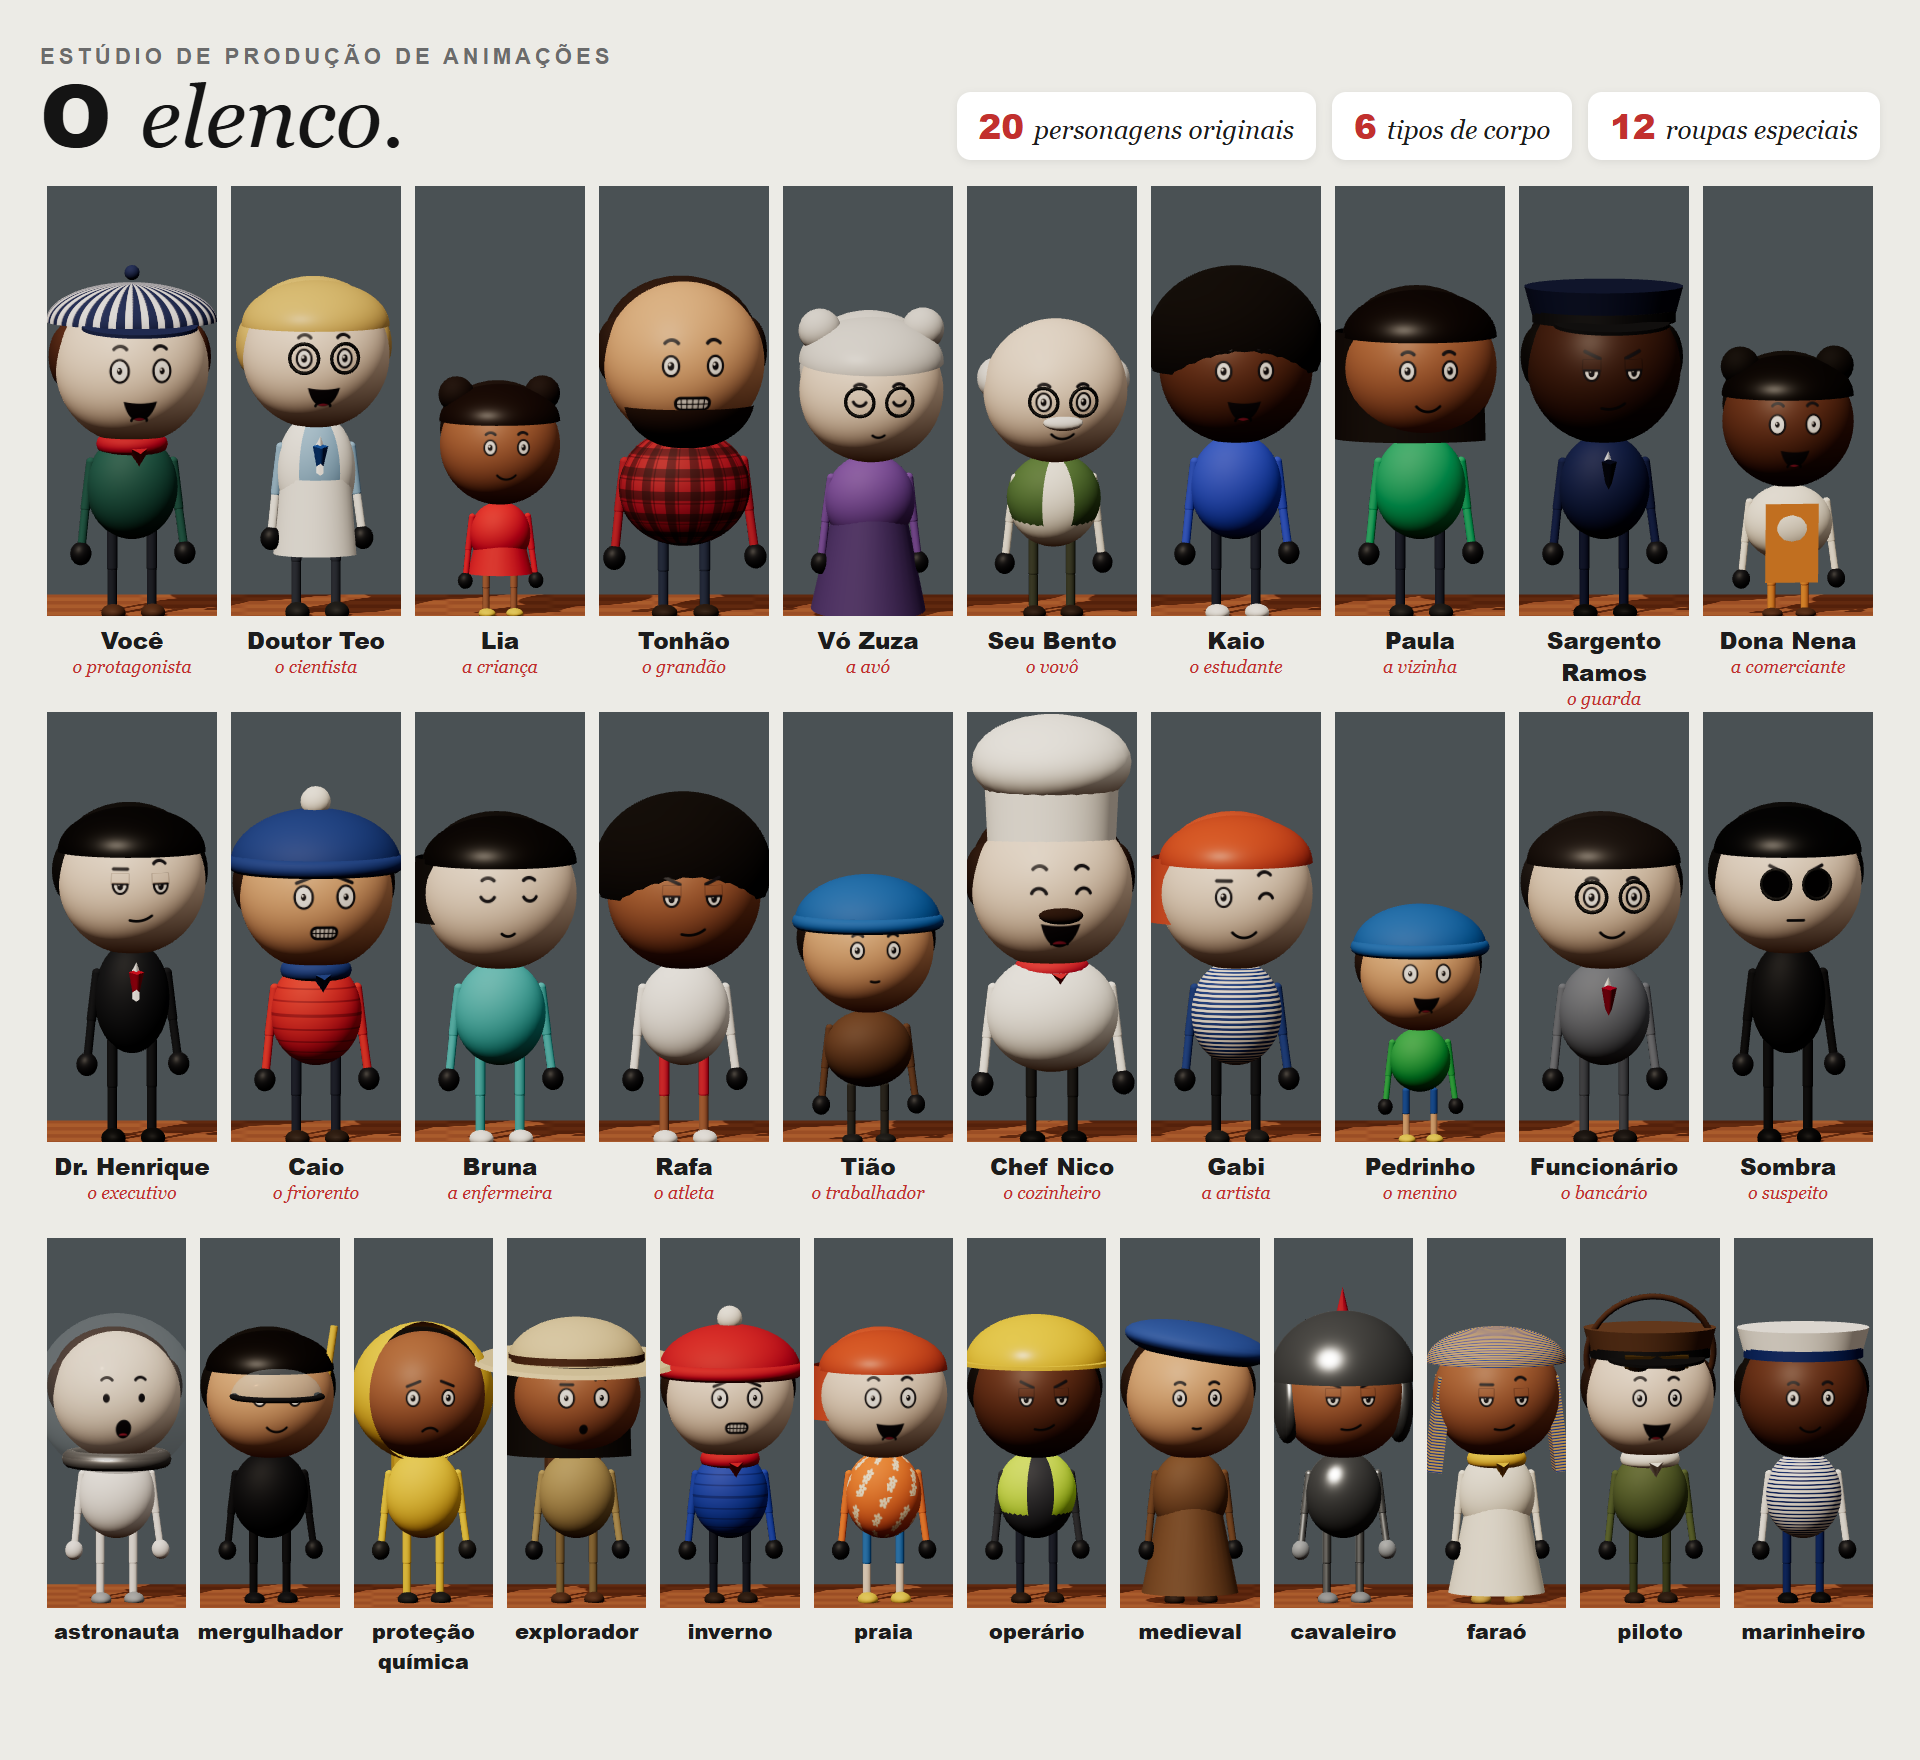
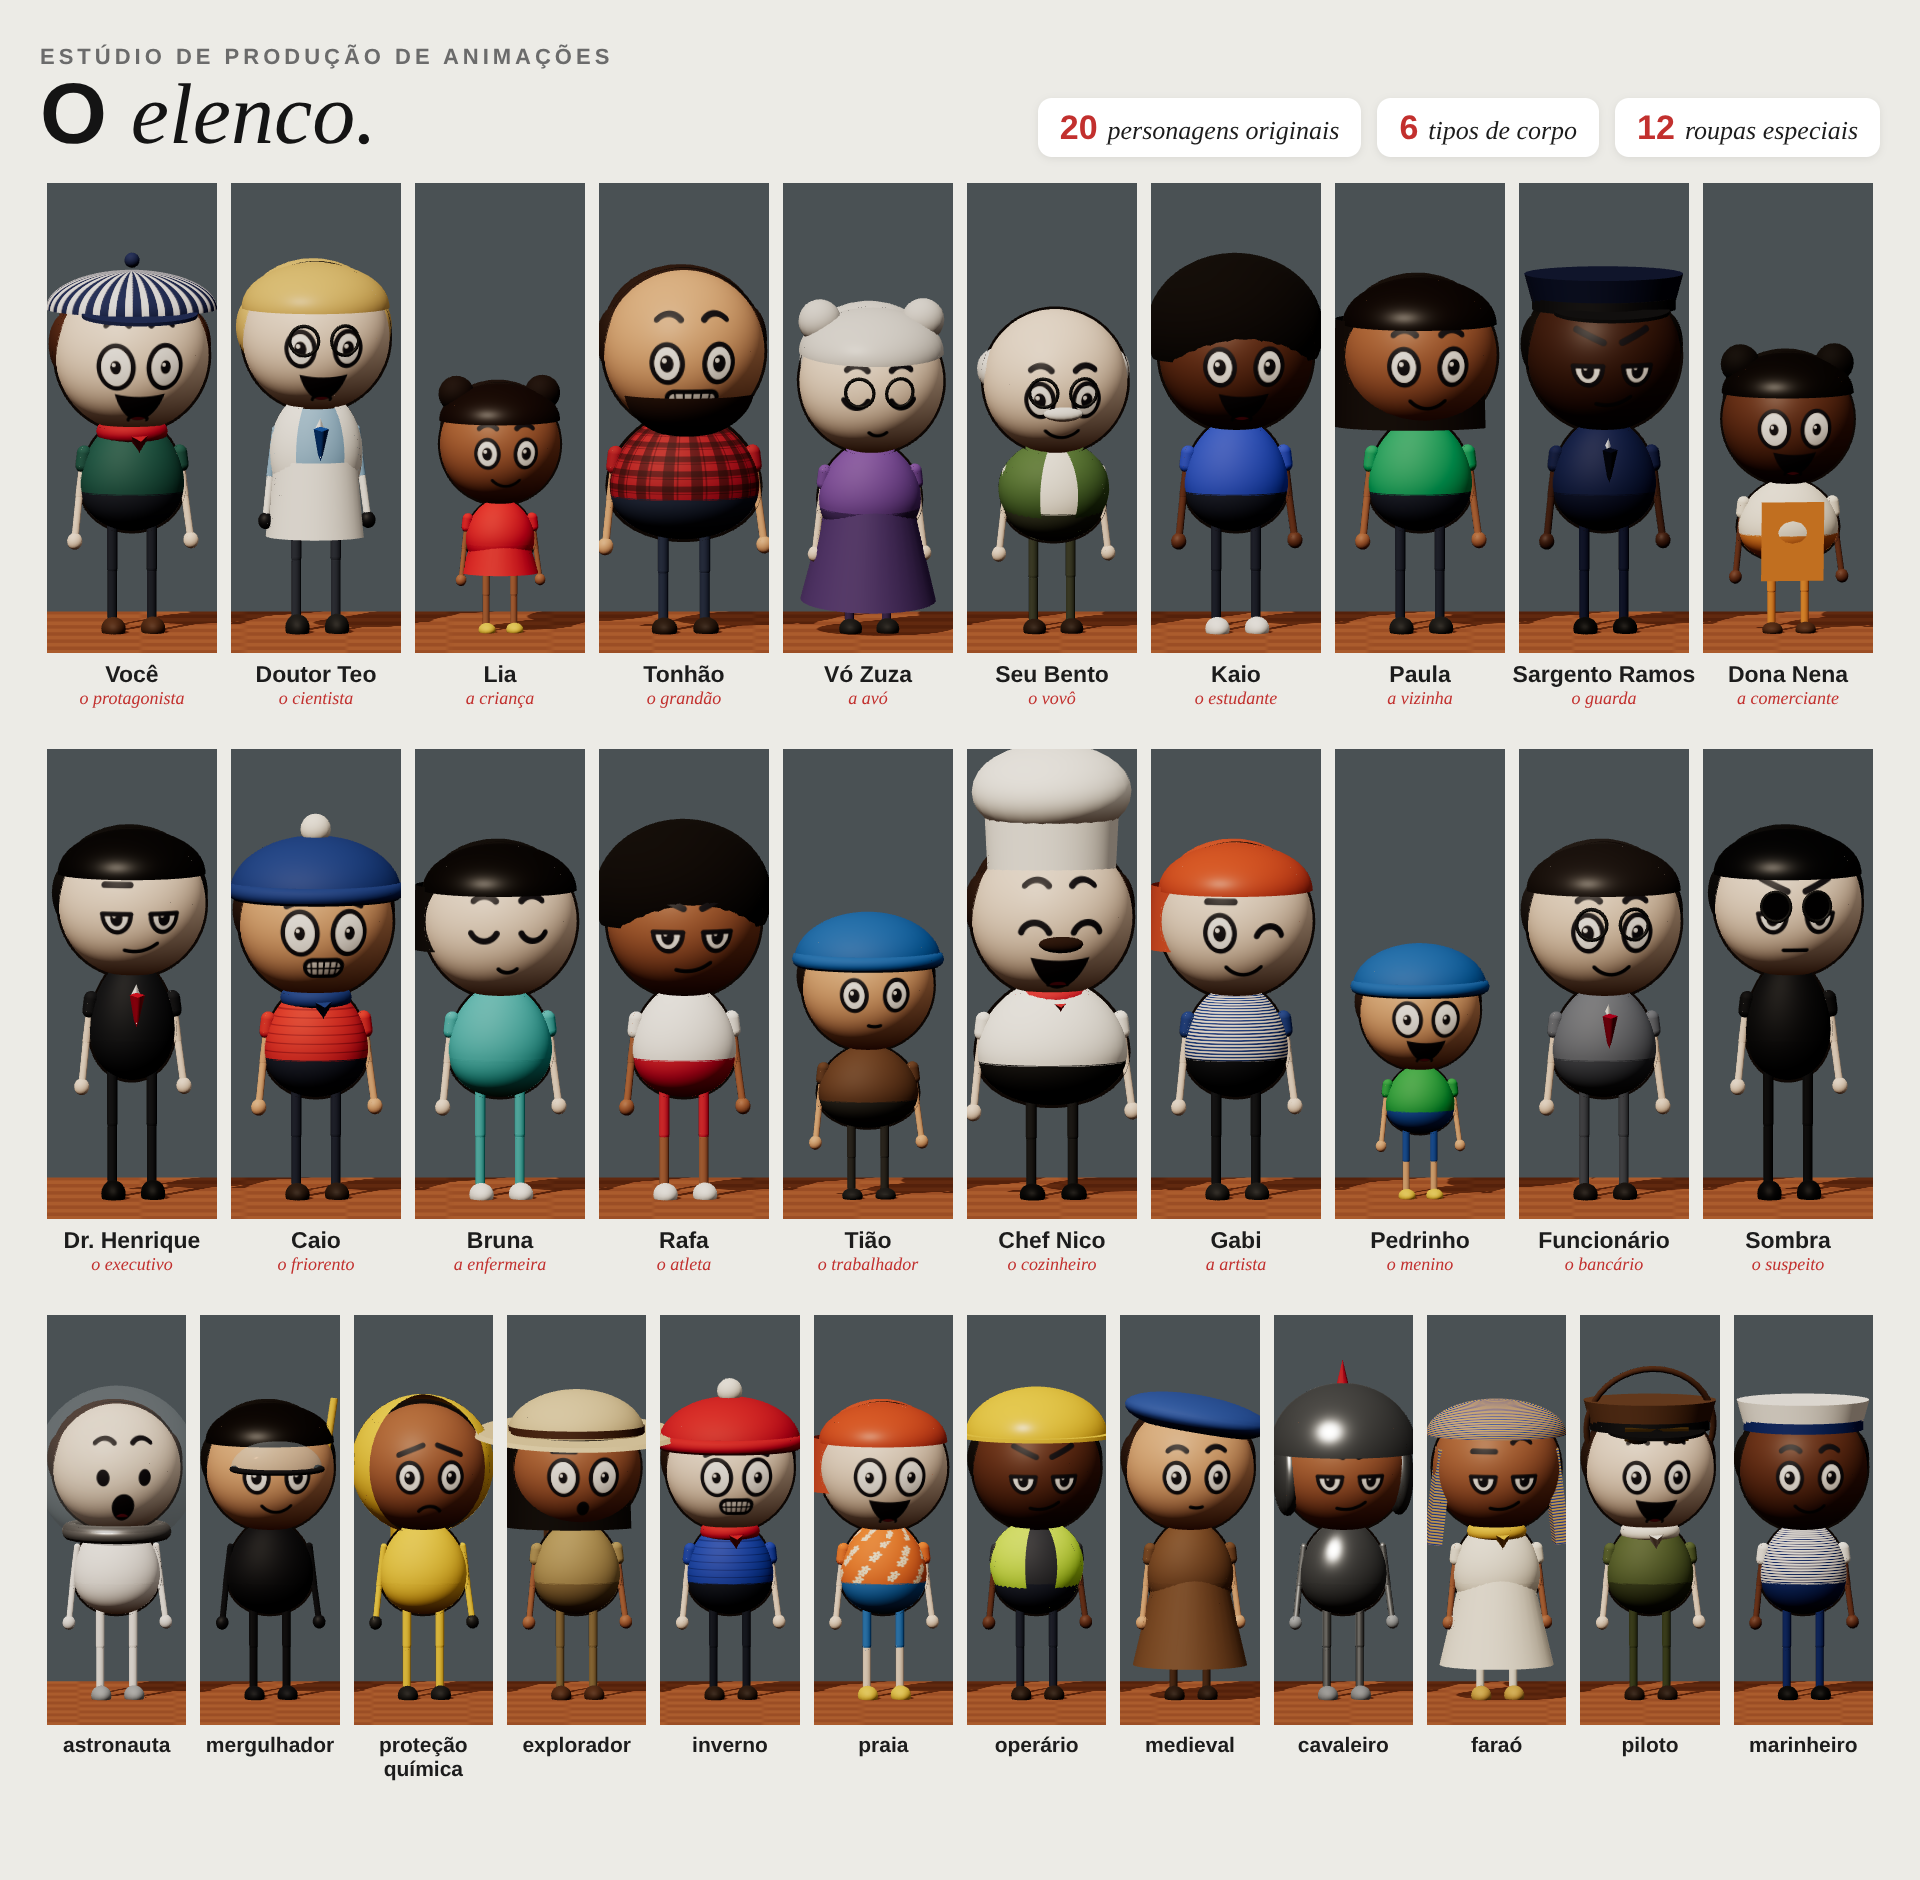
Estilo dos vídeos vira o padrão de todos os personagens
- Character: estilo 'video' por padrão; 'classico' mantém o corpo antigo
- Luvas de roupa especial (astronauta, proteção, mergulhador) mantêm a manga
- ELENCO.png refeito no estilo novo; cartões mais altos na folha

Claude-Session: https://claude.ai/code/session_016bHbYKiNFahAkYpXj2UE3y

diff --git a/estudio-animacoes-3d/src/Character.tsx b/estudio-animacoes-3d/src/Character.tsx
@@ -81,7 +81,7 @@ export type Look = {
   metal?: boolean; // armadura
   backpack?: string; // mochila / tanque
   faixa?: string; // faixa colorida na cintura (macacão de astronauta, armadura em gomos)
-  estilo?: 'video'; // 'video' = corpo e rosto dos Shorts de referência (tronco-ovo, pernas longas, olhos grandes, contorno)
+  estilo?: 'video' | 'classico'; // padrão 'video' = corpo e rosto dos Shorts de referência; 'classico' = corpo antigo do kit
 };
 
 export const VOCE: Look = {
@@ -144,8 +144,9 @@ const Limb = ({ len, r, color, metal }: { len: number; r: number; color: string;
 
 const Arm = ({ side, sz, sx, el, look, sh, hand }: { side: 1 | -1; sz: number; sx: number; el: number; look: Look; sh: number; hand?: ReactNode }) => {
   // Estilo vídeo: braço cor de pele com manguinha curta e mão pequena clara (exceto armadura/macacão).
-  const V = look.estilo === 'video';
-  const nu = V && !look.metal && !look.coat && look.gloves !== look.jacket;
+  const V = look.estilo !== 'classico';
+  // Braço à mostra só quando a "luva" é a mão padrão (escura) ou da cor da pele; luva de roupa especial mantém a manga.
+  const nu = V && !look.metal && !look.coat && (look.gloves === '#1e1f24' || look.gloves === look.skin);
   const braco = nu ? look.skin : look.jacket;
   const mao = V && !look.metal ? (nu ? look.skin : look.gloves) : look.gloves;
   return (
@@ -596,7 +597,7 @@ export const Character = ({
   const swing = Math.sin(ph) * 0.55 * p.stride;
   const bob = Math.abs(Math.sin(ph)) * 0.07 * p.stride;
   const sq = 1 - p.squash * 0.18;
-  const V = look.estilo === 'video';
+  const V = look.estilo !== 'classico';
   const pernas = b.legs * (V ? 1.35 : 1);
   // Estilo vídeo: tronco maior em relação à cabeça, ombros mais abertos.
   const torso: [number, number, number] = V ? [b.torso[0] * 1.18, b.torso[1] * 1.08, b.torso[2] * 1.18] : b.torso;

diff --git a/estudio-animacoes-3d/src/Root.tsx b/estudio-animacoes-3d/src/Root.tsx
@@ -18,7 +18,7 @@ export const Root = () => (
       defaultProps={{ legendas: false, voz: VOZ.length > 0, musica: false }}
     />
     {/* Folha com todo o elenco disponível (node tools/elenco.mjs) */}
-    <Composition id="Elenco" component={Elenco} durationInFrames={1} fps={FPS} width={1920} height={1760} />
+    <Composition id="Elenco" component={Elenco} durationInFrames={1} fps={FPS} width={1920} height={1880} />
  <Composition id="NovosPersonagens" component={NovosPersonagens} durationInFrames={1} fps={FPS} width={1920} height={1920} />
     <Composition id="PersonagensMina" component={PersonagensMina} durationInFrames={1} fps={FPS} width={1920} height={1220} />
   </>

diff --git a/estudio-animacoes-3d/src/Elenco.tsx b/estudio-animacoes-3d/src/Elenco.tsx
@@ -97,9 +97,9 @@ export const Elenco = () => {
           <Selo n={roupas.length} txt="roupas especiais" />
         </div>
       </div>
-      <Cartoes membros={todos.slice(0, 10)} w={W} h={430} />
-      <Cartoes membros={todos.slice(10)} w={W} h={430} />
-      <Cartoes membros={roupas} w={W} h={370} />
+      <Cartoes membros={todos.slice(0, 10)} w={W} h={470} />
+      <Cartoes membros={todos.slice(10)} w={W} h={470} />
+      <Cartoes membros={roupas} w={W} h={410} />
     </AbsoluteFill>
   );
 };

diff --git a/estudio-animacoes-3d/CLAUDE.md b/estudio-animacoes-3d/CLAUDE.md
@@ -111,7 +111,9 @@ estas regras. Quando uma regra não puder ser cumprida, avise antes de seguir.
   Use `rand(semente)` de `src/anim.ts` — o mesmo quadro sai igual em qualquer render.
 
 ## 1 — Forma
-- Cabeça grande e redonda (~1/3 da altura), corpo arredondado, braços e pernas **finos**, mãos e pés escuros sem dedos.
+- Estilo dos Shorts de referência (padrão, `REFERENCIAS.md`): cabeça grande e redonda com contorno escuro, olhos grandes,
+  tronco em forma de ovo (camisa em cima, calça embaixo), pernas longas e finas, braços cor de pele com manguinha e mãos pequenas claras.
+  Para o corpo antigo do kit use `estilo: 'classico'` no `Look`.
 - Todos os personagens saem da mesma base (`Character`); muda só o `Look` (roupa, cabelo, acessórios, cores).
 
 ## 2 — Cenário
@@ -177,7 +179,7 @@ o segundo em que a palavra começa (linha começa em 0; busca pelo começo da pa
   `body` ('adulto' | 'magro' | 'forte' | 'crianca' | 'idoso' | 'baixo'),
   `hairStyle` ('curto' | 'liso' | 'longo' | 'coque' | 'crespo' | 'careca' | 'chanel' | 'rabo' | 'nenhum'),
   `hat` + `hatColor` ('bone' | 'gorro' | 'touca' | 'boina' | 'policia' | 'chef' | 'capacete' | 'explorador' | 'astronauta' |
-  'cavaleiro' | 'farao' | 'marinheiro' | 'piloto' | 'capuz' | 'coroa' | 'cartola'), `faixa` (faixa colorida na cintura), `estilo: 'video'` (corpo e rosto dos Shorts de referência: tronco em ovo camisa+calça, pernas longas, braço cor de pele com manguinha, olhos grandes e contorno escuro — o elenco novo já usa), `eyewear` ('grau' | 'escuro' | 'mergulho' | 'aviador'),
+  'cavaleiro' | 'farao' | 'marinheiro' | 'piloto' | 'capuz' | 'coroa' | 'cartola'), `faixa` (faixa colorida na cintura), `estilo` ('video' — padrão: tronco em ovo, pernas longas, braço cor de pele, olhos grandes e contorno | 'classico' — corpo antigo do kit), `eyewear` ('grau' | 'escuro' | 'mergulho' | 'aviador'),
   `beard` ('bigode' | 'barba'), `pattern` + `pattern2` + `patternH` ('listras' | 'xadrez' | 'florido' | 'acolchoado'),
   `coat` (jaleco), `vest` (colete), `apron` (avental), `skirt` ({ color, long }), `shorts`, `scarf`, `tie`, `shirt`,
   `metal` (armadura), `backpack` (mochila/tanque). Mãos claras: `gloves` = cor da pele (ou branco no estilo "rosto branco").
